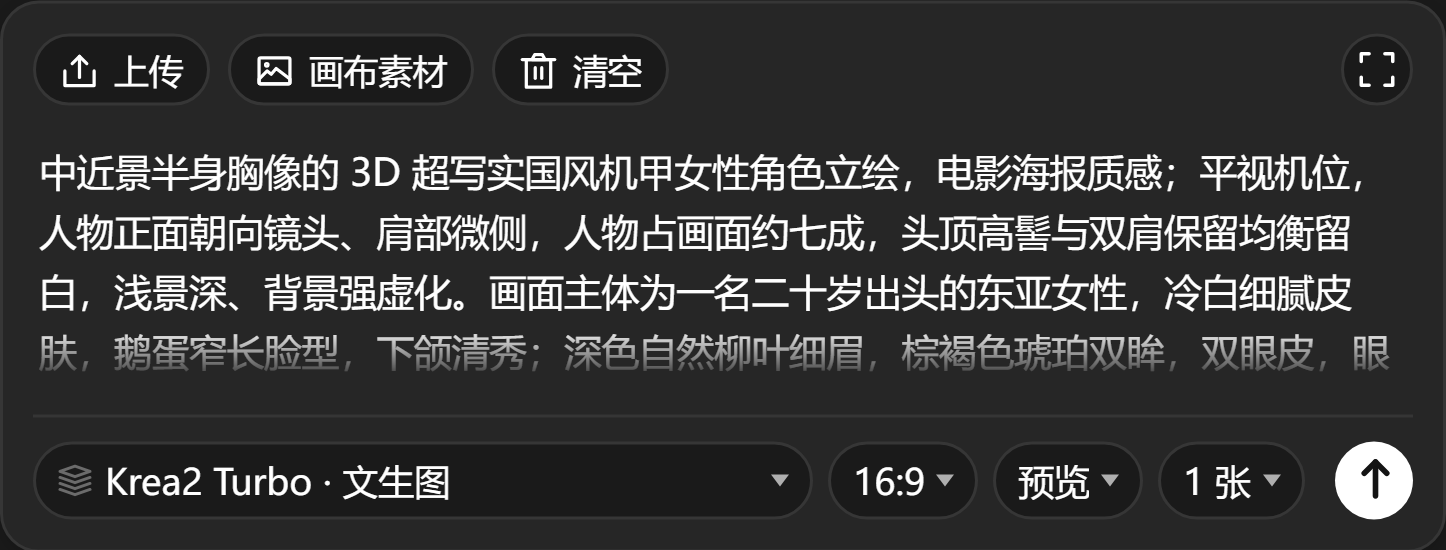
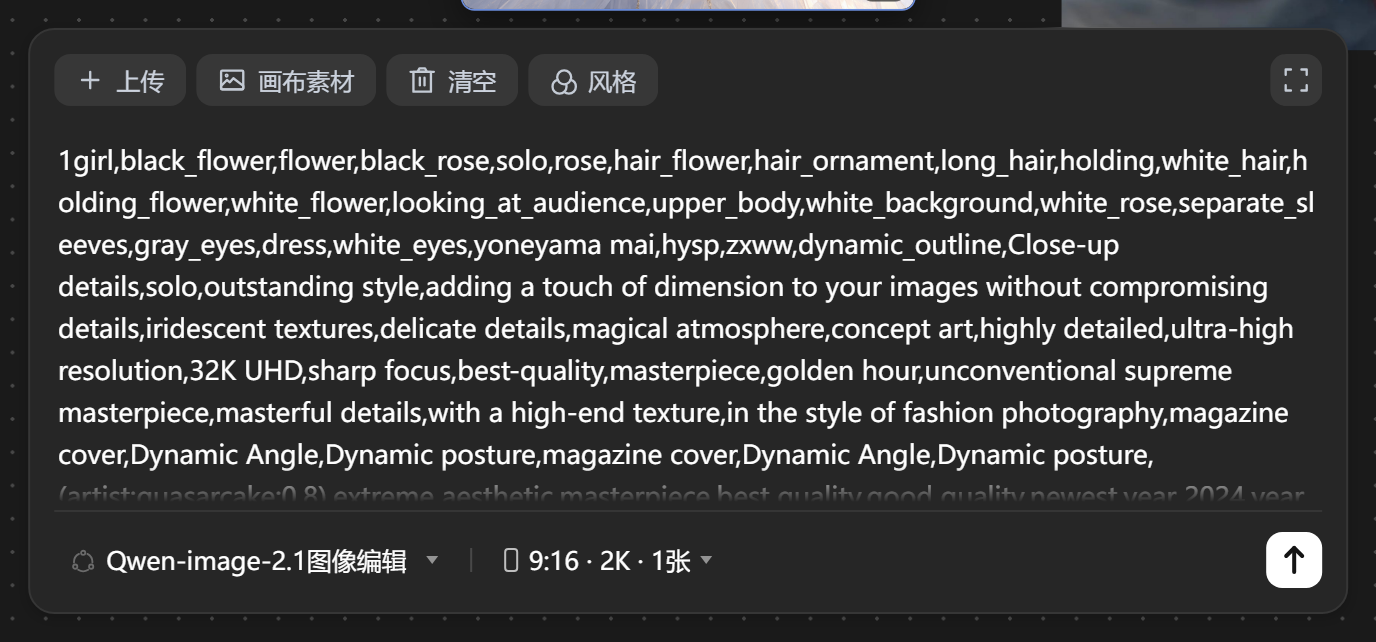
README 界面截图同步：重拍生成器面板，新增格式条/预设与资产库两张
- 生成器面板那张是 10-25 的，chips 行还是「上传 / 画布素材 / 清空」三颗，缺了后来的「风格 / 展开」。
  用真项目重拍（Qwen 图像编辑 · 9:16 · 2K），拍之前先中键把画布往上推 ——
  面板挂在节点下方，底部工具条会正好压在底栏上。
- 新增两张：
  · screenshot-prompt.png：文本节点 + 格式条八项 + 预设气泡（真提示词，展示长条目省略）。
  · screenshot-assets.jpg：资产库宽版（620px）多选态，框选框 + 两行动作条一起入镜。
    这张是照片墙，PNG 685KB 太大，转 JPEG q88 压到 156KB。
- README 顶部原来两张通栏图下面加一行两列：格式条 / 资产库，宽度分别给 470 / 300，
  两张比例差得多，不限定宽度会一张高一倍。

截图脚本没进版本库（tests/.tmp/ 已忽略）：真项目 + 真资产目录只读拷贝到临时 data 里跑。
两个坑记一下：CDP 的鼠标事件打不进节点（不触发 pointerdown，得用合成 PointerEvent）；
生成器面板常落在视口外，captureBeyondViewport 拍不到 transform 里的内容。

diff --git a/README.md b/README.md
@@ -7,6 +7,10 @@
 
 ![图片节点的生成器面板](docs/screenshot-genpanel.png)
 
+| 提示词格式条 + 预设 | 资产库：框选多选 |
+|---|---|
+| <img src="docs/screenshot-prompt.png" width="470" alt="提示词格式条与预设"> | <img src="docs/screenshot-assets.jpg" width="300" alt="资产库：框选多选"> |
+
 ## 快速开始
 
 按系统双击对应入口，或命令行启动：
